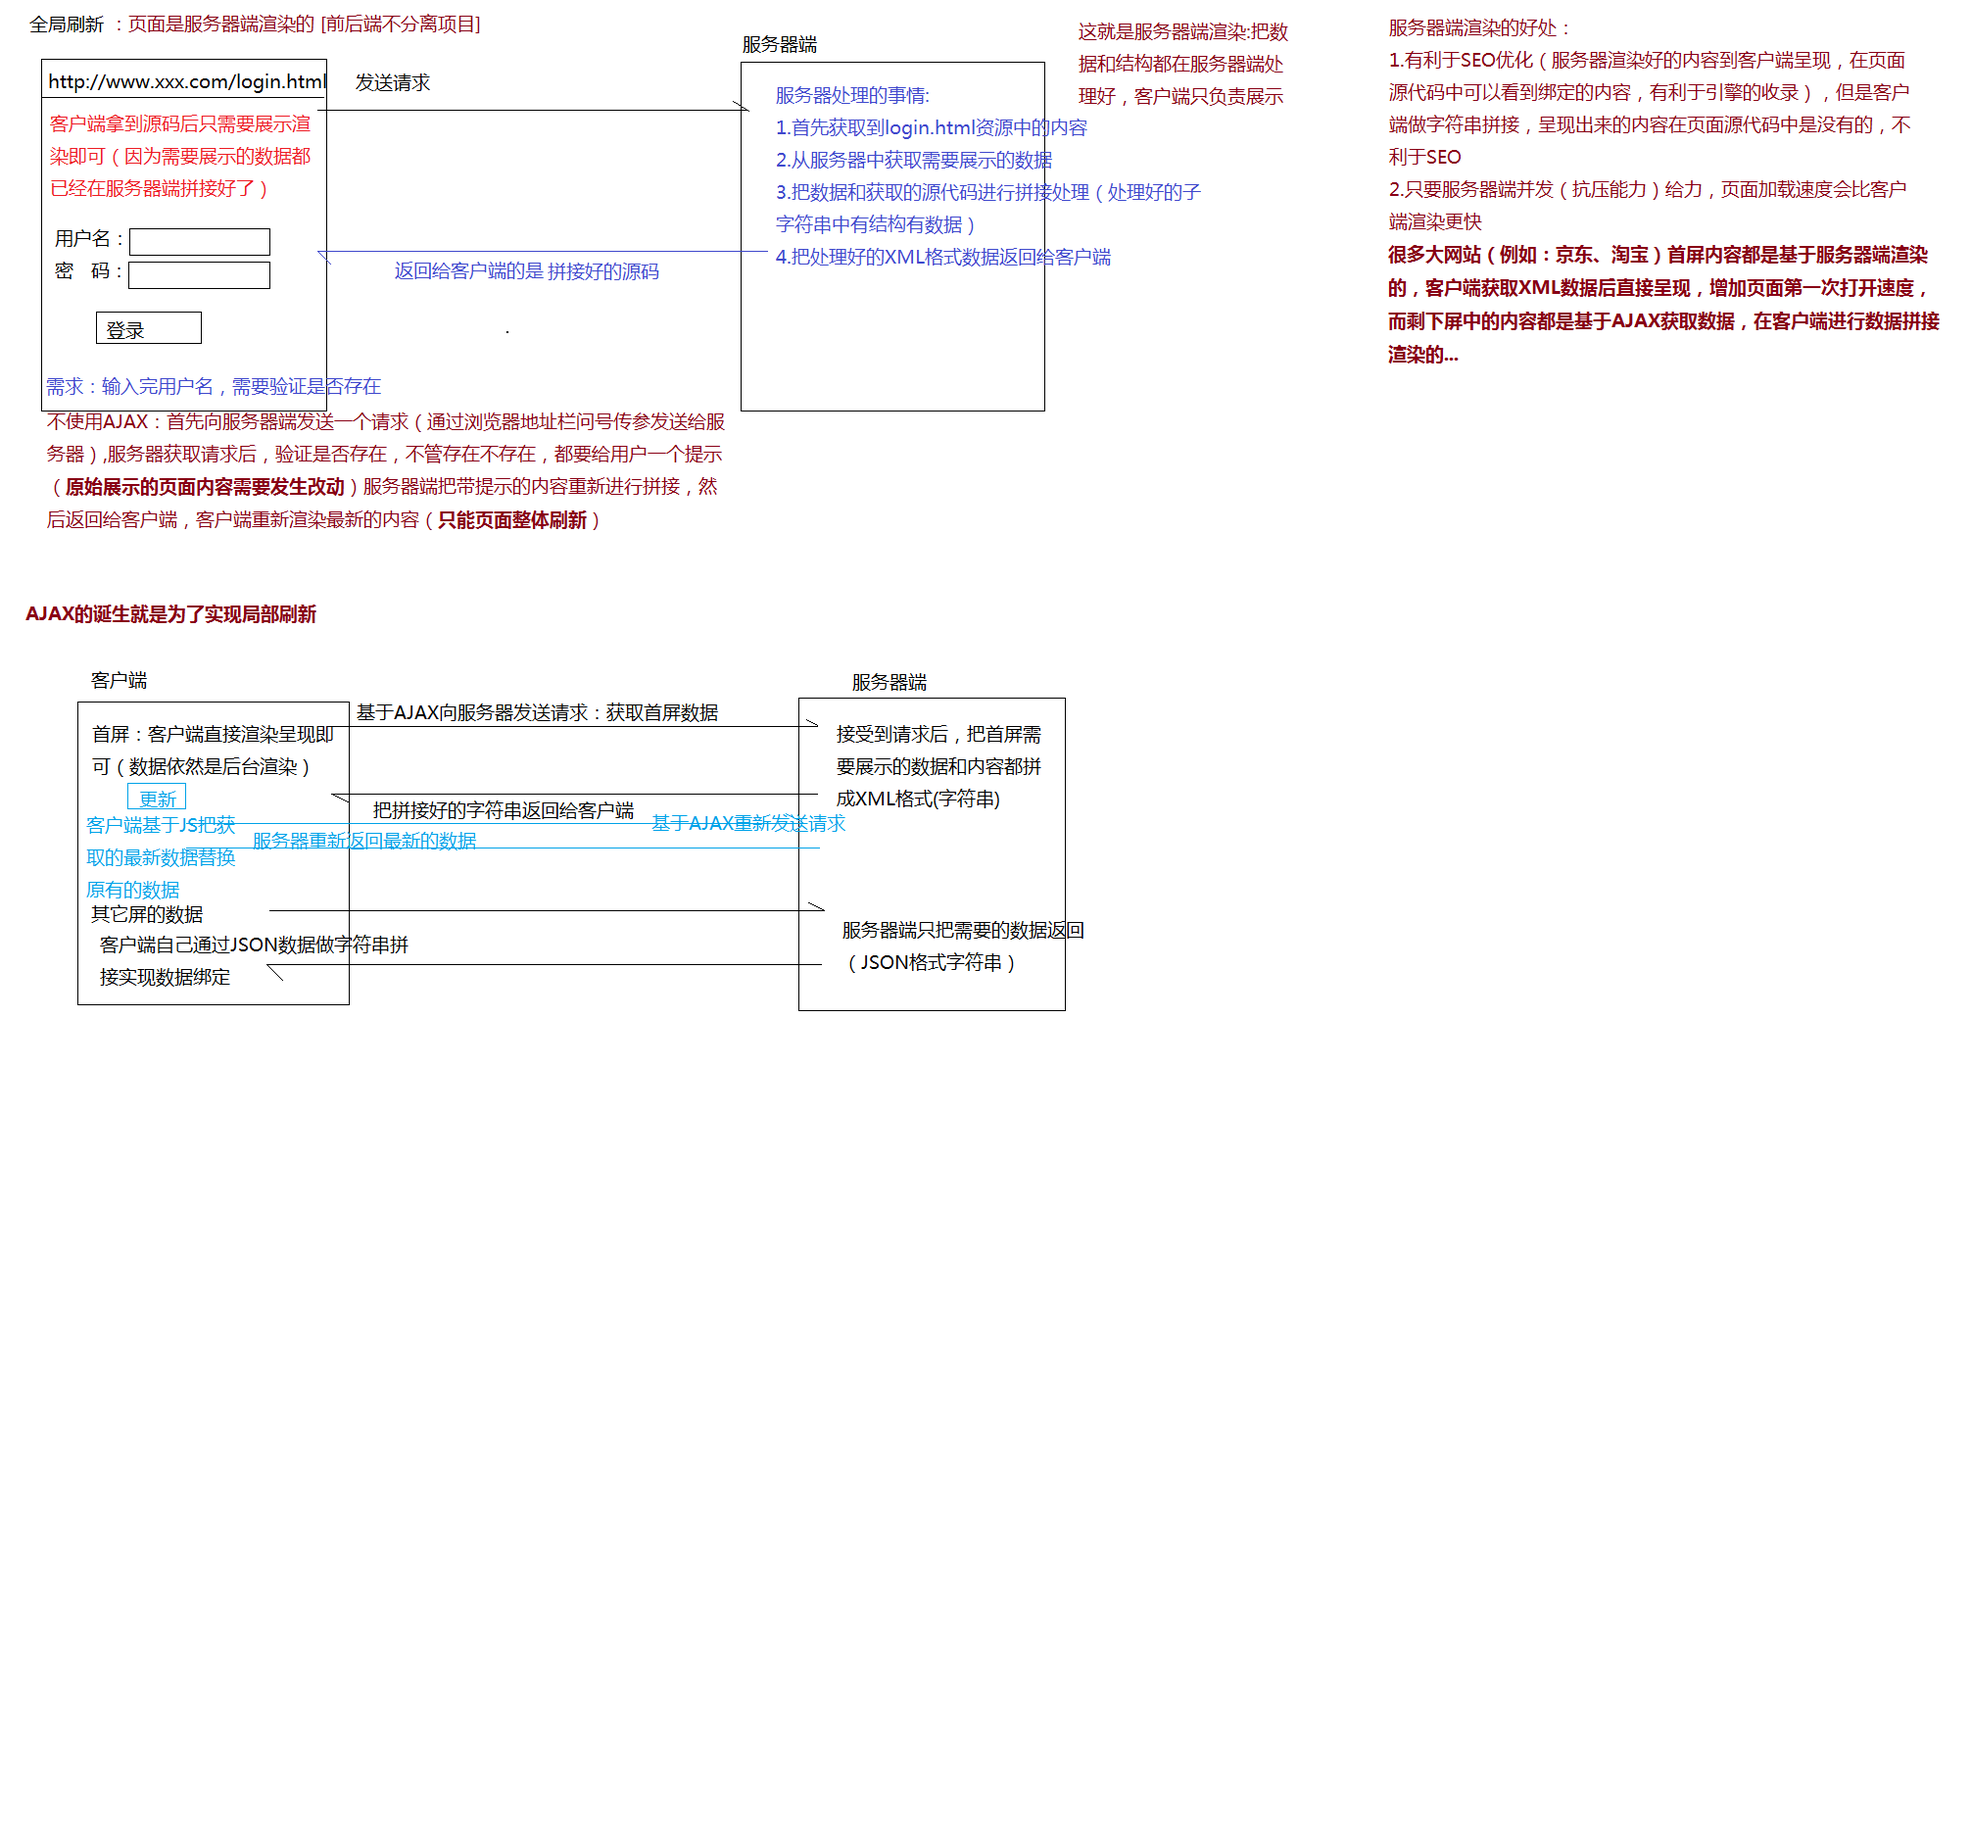
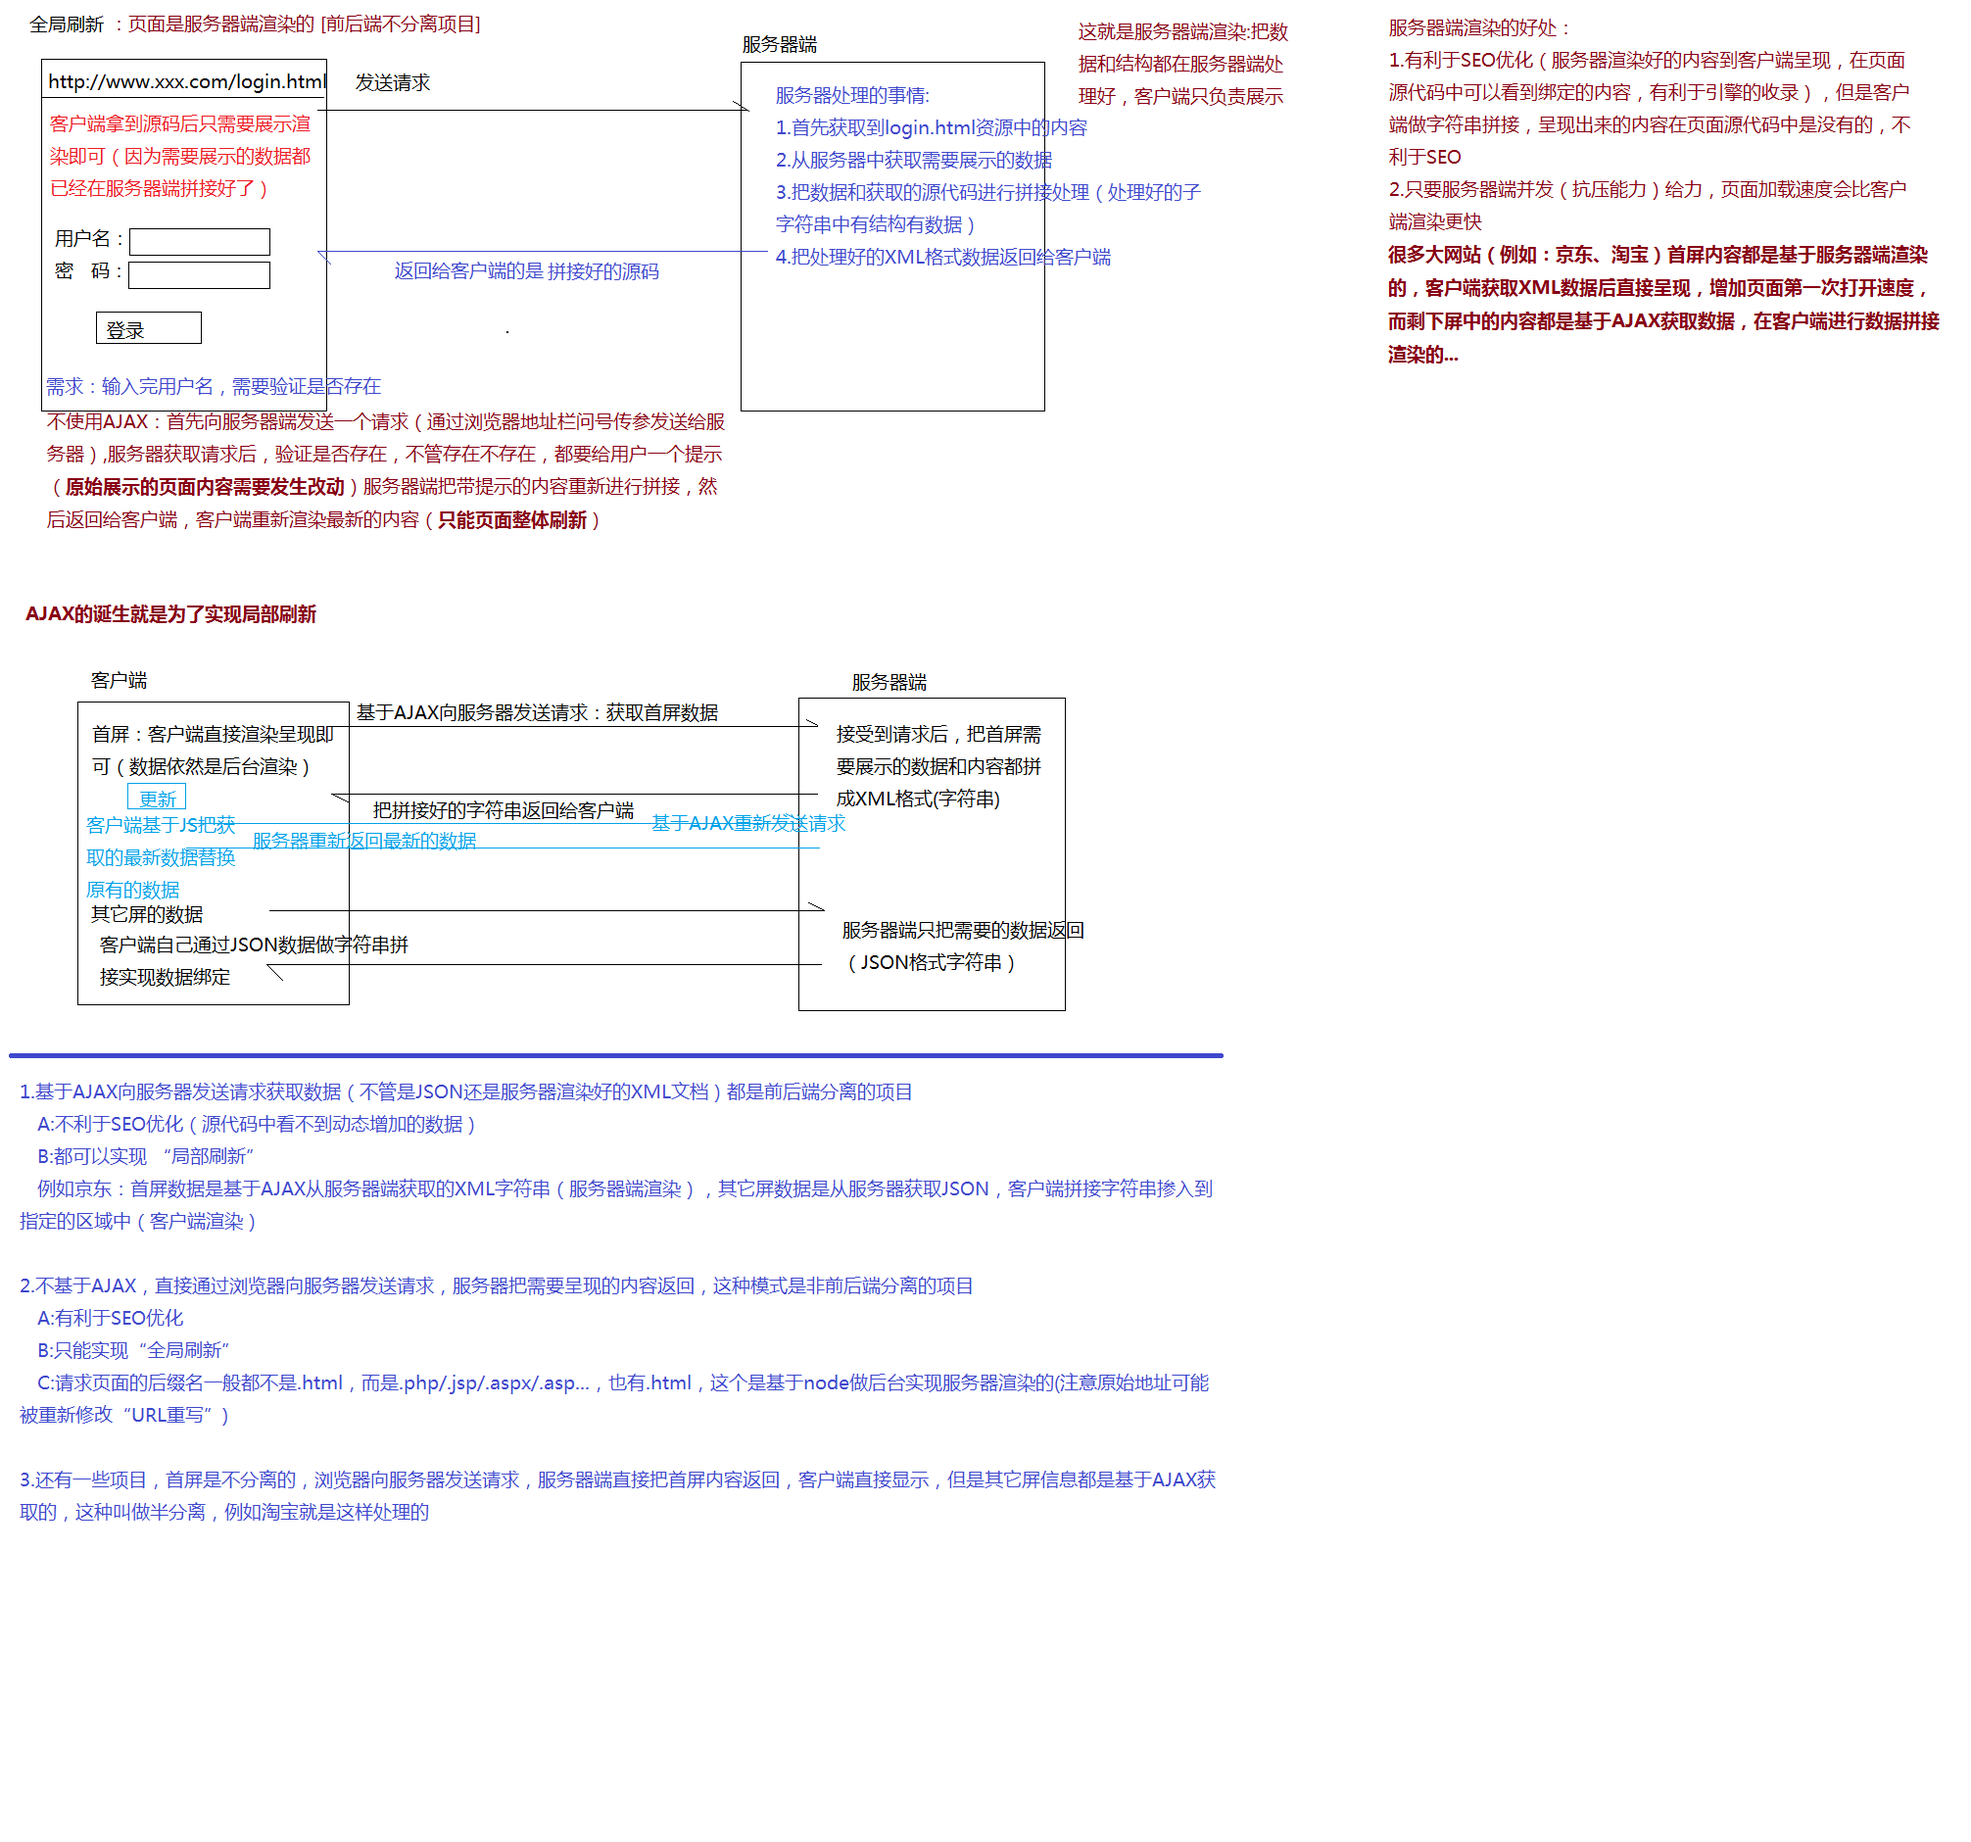
AJAX&HTTP

diff --git a/WEEK7/0523DAY2/1-GET-POST.html b/WEEK7/0523DAY2/1-GET-POST.html
@@ -1,0 +1,44 @@
+<!DOCTYPE html>
+<html>
+<head>
+    <meta charset="UTF-8">
+    <title>珠峰培训</title>
+</head>
+<body>
+<script>
+    let xhr = new XMLHttpRequest();
+    xhr.open('GET', 'temp.json');
+    // xhr.setRequestHeader('zhufeng', '@@@');//=>设置的请求头信息不能出现中文而且必须在OPEND之后才可以设置成功
+
+    // xhr.timeout = 200;
+    // xhr.ontimeout = () => {
+    //     console.log('请求超时，请稍后重试');
+    // };
+
+    xhr.onreadystatechange = () => {
+        if (!/^(2|3)\d{2}$/.test(xhr.status)) return; //=>证明服务器已经返回内容了（HTTP请求成功）
+        if (xhr.readyState === 2) {
+            //=>响应头信息已经回来了
+            let time = xhr.getResponseHeader('date');//=>获取的结果是格林尼治时间，而且是字符串
+            console.log(time, new Date(time));
+            //=>new Date()获取当前客户端时间
+            //=>new Date(时间字符串) 把指定的时间字符串格式化为标准的北京时间(不在是字符串了，而是DATE类的实例，也是标准的时间格式数据)
+        }
+
+        if (xhr.readyState === 4) {
+            console.log(xhr.responseText);
+        }
+    };
+    xhr.send(null);
+
+    /*let xhr = new XMLHttpRequest();
+    xhr.open('POST', 'https://www.easy-mock.com/mock/5b0412beda8a195fb0978627/temp/list');
+    xhr.onreadystatechange = () => {
+        if (xhr.readyState === 4 && xhr.status === 200) {
+            console.log(JSON.parse(xhr.responseText));
+        }
+    };
+    xhr.send(JSON.stringify({id: 1000, lx: 2000}));//=>请求主体中传递给服务的是JSON格式的字符串，但是真实项目中常用的是URL-ENCODE格式的字符串 "id=1000&lx=2000"*/
+</script>
+</body>
+</html>

diff --git a/WEEK7/0523DAY2/笔记.MD b/WEEK7/0523DAY2/笔记.MD
@@ -135,17 +135,110 @@ DNS及HTTP通信方式的优化
 
  很久以前，AJAX刚刚兴起的时候，客户端从服务器端获取数据，服务器为了清晰的表达数据结构，都是返回XML格式的内容，当下，我们获取的数据一般都是JSON格式的内容，JSON相对于XML来说，也能清晰表达数据结构，而且访问里面数据的时候操作起来比XML更简便（但是现在某些项目中，服务器返回给客户端的数据不单纯是数据，而是数据和需要展示的结构拼接好的结果(类似于我们自己做的字符串拼接)，换句话说，是服务器端把数据和结构拼接好返回给我们，此时返回的数据格式一般都是XML格式的字符串）
 
- 
+2.AJAX操作
+```
+//=>创建AJAX实例：IE6中是不兼容的，使用的是new ActiveXObject来实现的
+let xhr = new XMLHttpRequest();
 
+//=>打开请求：发送请求之前的一些配置项
+//1.HTTP METHOD 请求方式
+// GET/DELETE/HEAD/OPTIONS/TRACE/CONNECT
+// POST/PUT
+//2.URL 向服务器端发送请求的API（Application Programming Interface）接口地址
+//3.ASYNC 设置AJAX请求的同步异步，默认是异步（写TRUE也是异步），FALSE是同步，项目中都使用异步编程，防止阻塞后续代码执行
+//4.USER-NAME/USER-PASS：用户名密码，一般不用
+xhr.open([HTTP METHOD],[URL],[ASYNC],[USER-NAME],[USER-PASS]);
 
+//=>3.事件监听：一般监听的都是 READY-STATE-CHANGE 事件（AJAX状态改变事件），基于这个事件可以获取服务器返回的响应头响应主体内容
+xhr.onreadystatechange=()=>{
+    if(xhr.readyState===4 && xhr.status===200){
+       xhr.responseText;
+    }
+};
 
+//=>4.发送AJAX请求：从这步开始，当前AJAX任务开始，如果AJAX是同步的，后续代码不会执行，要等到AJAX状态成功后在执行，反之异步不会
+xhr.send([请求主体内容]);
+```
 
+3.关于HTTP请求方式的一点学习
+所有的请求都可以给服务器端传递内容，也都可以从服务器端获取内容
+  GET：从服务器端获取数据(给的少拿的多)
+  POST：向服务器端推送数据(给的多拿的少)
+  DELETE：删除服务器端的某些内容（一般是删除一些文件）
+  PUT：向服务器上存放一些内容（一般也是存放文件）
+  HEAD：只想获取服务器返回的响应头信息，不要响应主体中的内容
+  OPTIONS：一般使用它向服务器发送一个探测性请求，如果服务器端返回的信息了，说明当前客户端和服务器端建立了连接，我们可以继续执行其它请求了（TRACE是干这件事的，但是axios这个AJAX类库在基于cross domain进行跨域请求的时候，就是先发送OPTIONS请求进行探测尝试，如果能连通服务器，才会继续发送其它的请求）
 
+4.GET VS POST
+ [传递给服务器信息的方式不一样]
+  GET是基于URL地址“问号传参”的方式把信息传递给服务器，POST是基于“请求主体”把信息传递给服务器
+  ```
+    [GET]
+    xhr.open('GET','/temp/list?xxx=xxx&xxx=xxx')
 
+    [POST]
+    xhr.send('xxx=xxx&xxx=xxx')
+  ```
+  GET一般应用于拿（给服务器的会少一些），而POST给服务器的很多，如果POST是基于问号传参方式来搞会出现一些问题：URL会拼接很长，浏览器对于URL的长度有有最大限度（谷歌8KB 火狐7KB IE2KB ...），超过的部分浏览器就把它截掉了 =>所以GET请求可以基于URL传参，而POST都是使用请求主体传递（请求主体理论上是没有限制的，真实项目中我们会自己做大小限制，防止上传过大信息导致请求迟迟完不成）
 
+ [GET不安全，POST相对安全]
+   因为GET是基于“问号传参”把信息传递给服务器的，容易被骇客进行URL劫持，POST是基于请求主体传递的，相对来说不好被劫持；所以登录、注册等涉及安全性的交互操作，我们都应该用POST请求；
 
+ [GET会产生不可控制的缓存,POST不会]
+   不可控：不是想要就要，想不要就不要的，这是浏览器自主记忆的缓存，我们无法基于JS控制，真实项目中我们都会把这个缓存干掉
+   GET请求产生缓存是因为：连续多次向相同的地址（并且传递的参数信息也是相同的）发送请求，浏览器会把之前获取的数据从缓存中拿到返回，导致无法获取服务器最新的数据（POST不会）
 
+   解决方案：
+   ```
+     xhr.open('GET',`/temp/list?lx=1000&_=${Math.random()}`); //=>保证每次请求的地址不完全一致：在每一次请求的末尾追加一个随机数即可(使用_作为属性名就是不想和其它的属性名冲突)
+   ```
 
+5.AJAX状态(READY-STATE)
+0 =>UNSENT  刚开始创建XHR，还没有发送
+1 =>OPENED  已经执行了OPEN这个操作
+2 =>HEADERS_RECEIVED 已经发送AJAX请求（AJAX任务开始），响应头信息已经被客户端接收了（响应头中包含了：服务器的时间、返回的HTTP状态码...）
+3 =>LOADING 响应主体内容正在返回
+4 =>DONE 响应主体内容已经被客户端接收
 
+6.HTTP网络状态码(STATUS)
+根据状态码能够清楚的反映出当前交互的结果及原因
+  200 OK 成功(只能证明服务器成功返回信息了，但是信息不一定是你业务需要的)
 
+  301 Moved Permanently 永久转移（永久重定向）
+    =>域名更改，访问原始域名重定向到新的域名
 
+  302 Move temporarily 临时转移（临时重定向 =>307）
+    =>网站现在是基于HTTPS协议运作的，如果访问的是HTTP协议，会基于307重定向到HTTPS协议上
+    =>302一般用作服务器负载均衡：当一台服务器达到最大并发数的时候，会把后续访问的用户临时转移到其它的服务器机组上处理
+    =>偶尔真实项目中会把所有的图片放到单独的服务器上“图片处理服务器”，这样减少主服务器的压力，当用户向主服务器访问图片的时候，主服务器都把它转移到图片服务器上处理
+
+  304 Not Modified 设置缓存
+    =>对于不经常更新的资源文件，例如：CSS/JS/HTML/IMG等，服务器会结合客户端设置304缓存，第一次加载过这些资源就缓存到客户端了，下次再获取的时候，是从缓存中获取；如果资源更新了，服务器端会通过最后修改时间来强制让客户端从服务器重新拉取；基于CTRL+F5强制刷新页面，304做的缓存就没有用了。
+
+  400 Bad Request 请求参数错误
+  401 Unauthorized 无权限访问
+  404 Not Found  找不到资源(地址不存在)
+  413 Request Entity Too Large 和服务器交互的内容资源超过服务器最大限制
+
+  500 Internal Server Error 未知的服务器错误
+  503 Service Unavailable 服务器超负荷
+
+7.关于XHR的属性和方法
+  xhr.response  响应主体内容
+  xhr.responseText 响应主体的内容是字符串（JSON或者XML格式字符串都可以）
+  xhr.responseXML 响应主体的内容是XML文档
+
+  xhr.status 返回的HTTP状态码
+  xhr.statusText 状态码的描述
+
+  xhr.timeout 设置请求超时的时间
+  xhr.withCredentials 是否允许跨域（FALSE）
+
+  xhr.abort() 强制中断AJAX请求
+  xhr.getAllResponseHeaders() 获取所有响应头信息
+  xhr.getResponseHeader([key]) 获取KEY对应的响应头信息，例如：xhr.getResponseHeader('date')就是在获取响应有中的服务器时间
+
+  xhr.open() 打开URL请求
+  xhr.overrideMimeType() 重写MIME类型
+  xhr.send() 发送AJAX请求
+  xhr.setRequestHeader() 设置请求头
